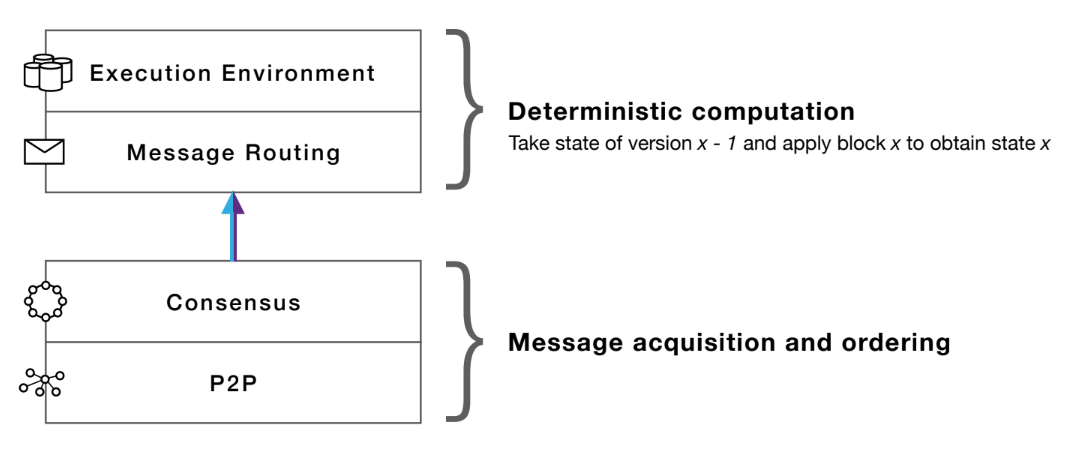
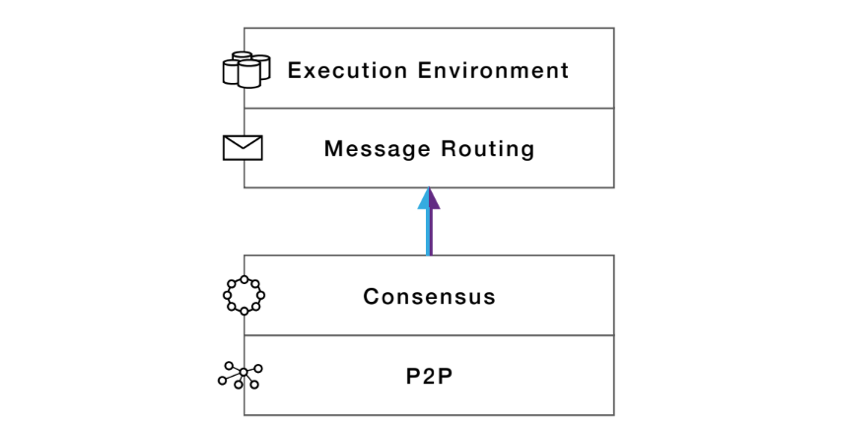
Images

diff --git a/how-it-works/1_protocol/00_protocol_overview.subpage.md b/how-it-works/1_protocol/00_protocol_overview.subpage.md
@@ -8,14 +8,14 @@ slug: core-ic-protocol-overview
 # Core Internet Computer Protocol – Overview
 
 The *IC core protocol* is a 4-layer protocol responsible for implementing the blockchain functionality within a subnet. Each node of a subnet runs an implementation of this core protocol. The core protocol has the following layers:
-* Peer-to-peer layer
-* Consensus layer
-* Message routing layer
-* Execution layer
+1. Peer-to-peer layer
+2. Consensus layer
+3. Message routing layer
+4. Execution layer
 
 We want to first give a very basic intuition on those layers, as illustrated also in the following figure.
 
-[](/img/how-it-works/core_protocol_layers.png)
+[](/img/how-it-works/core_protocol_layers_annotated.png)
 Layers of the IC core protocol
 
 The lower two layers – *peer-to-peer* and *consensus* – are responsible for *selecting and ordering messages* to be executed and ensuring that each node has the same view of those messages for a given round. The output of those two layers is a block comprising an ordered list of messages to be executed, and the layers ensure that every node of the subnet has the same block as output in a given round.

diff --git a/how-it-works/1_protocol/00_protocol_overview.card.md b/how-it-works/1_protocol/00_protocol_overview.card.md
@@ -2,7 +2,7 @@
 title: Overview
 ---
 
-![](/img/how-it-works/subnet_architecture.jpg)
+![](/img/how-it-works/core_protocol_layers.png)
 
 # Overview
 
